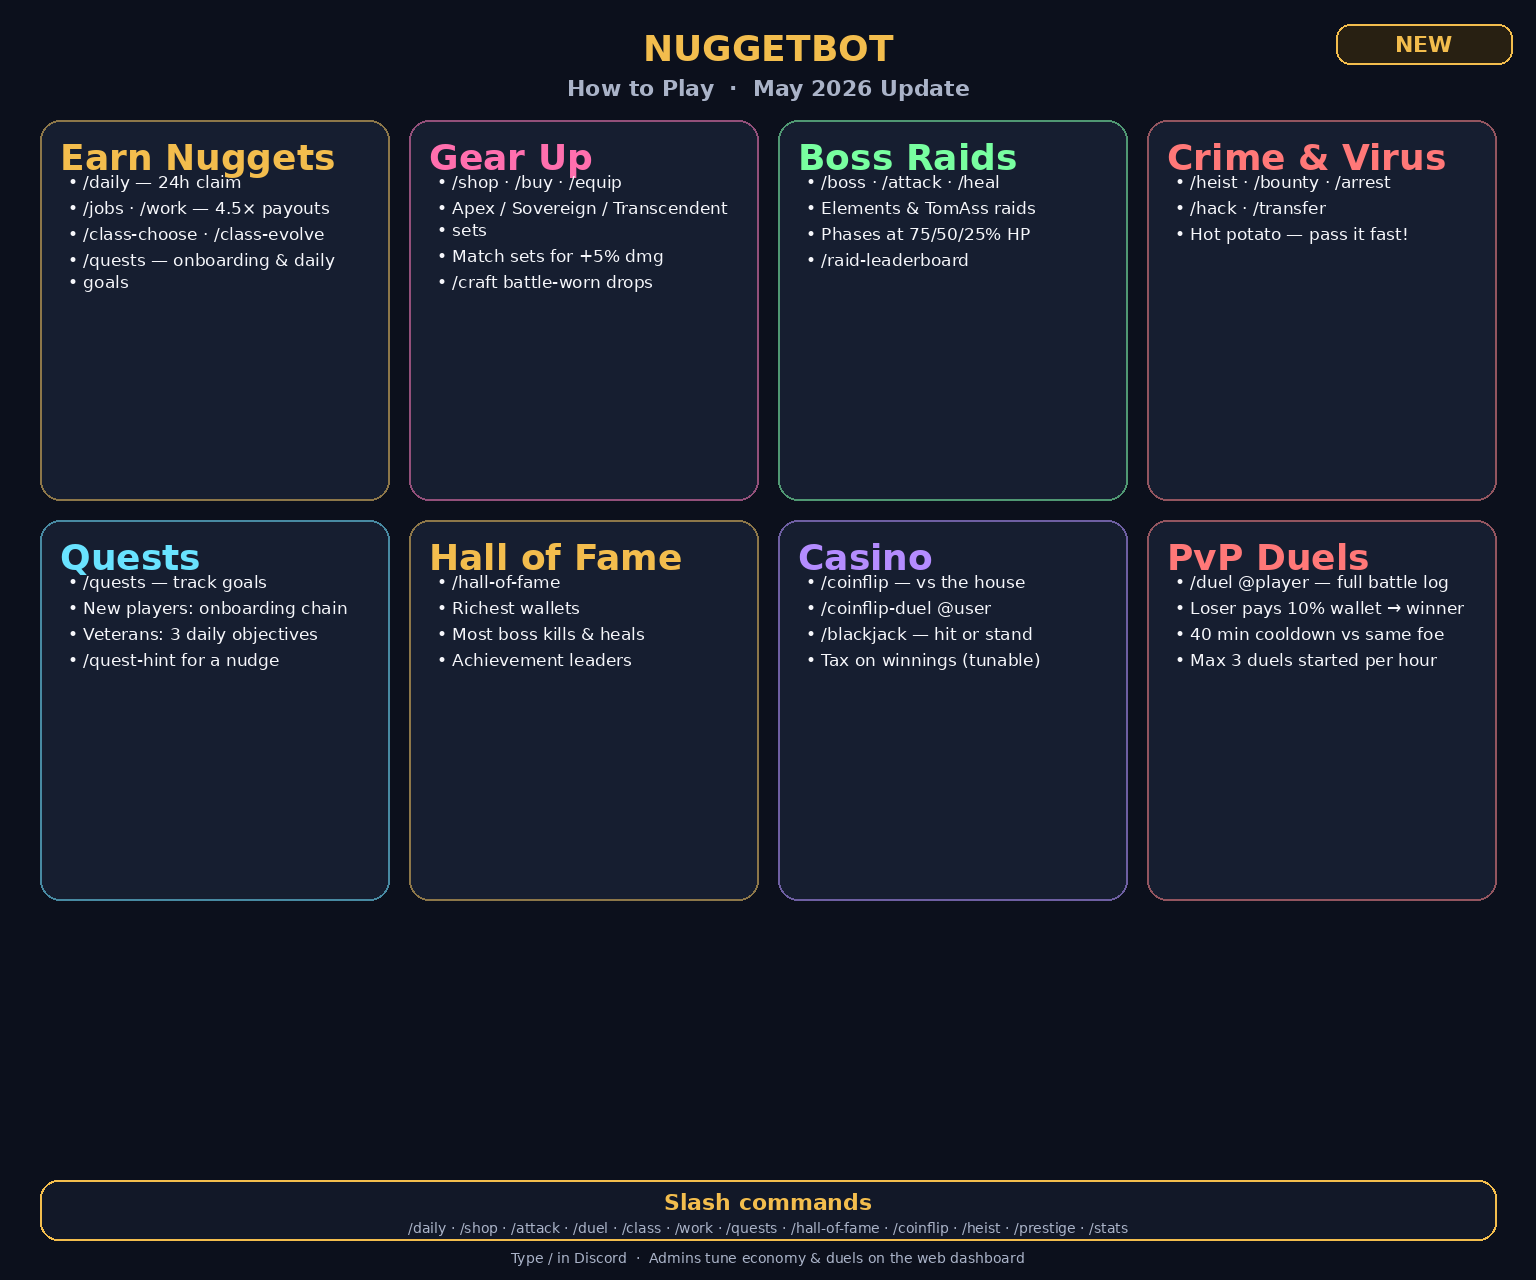
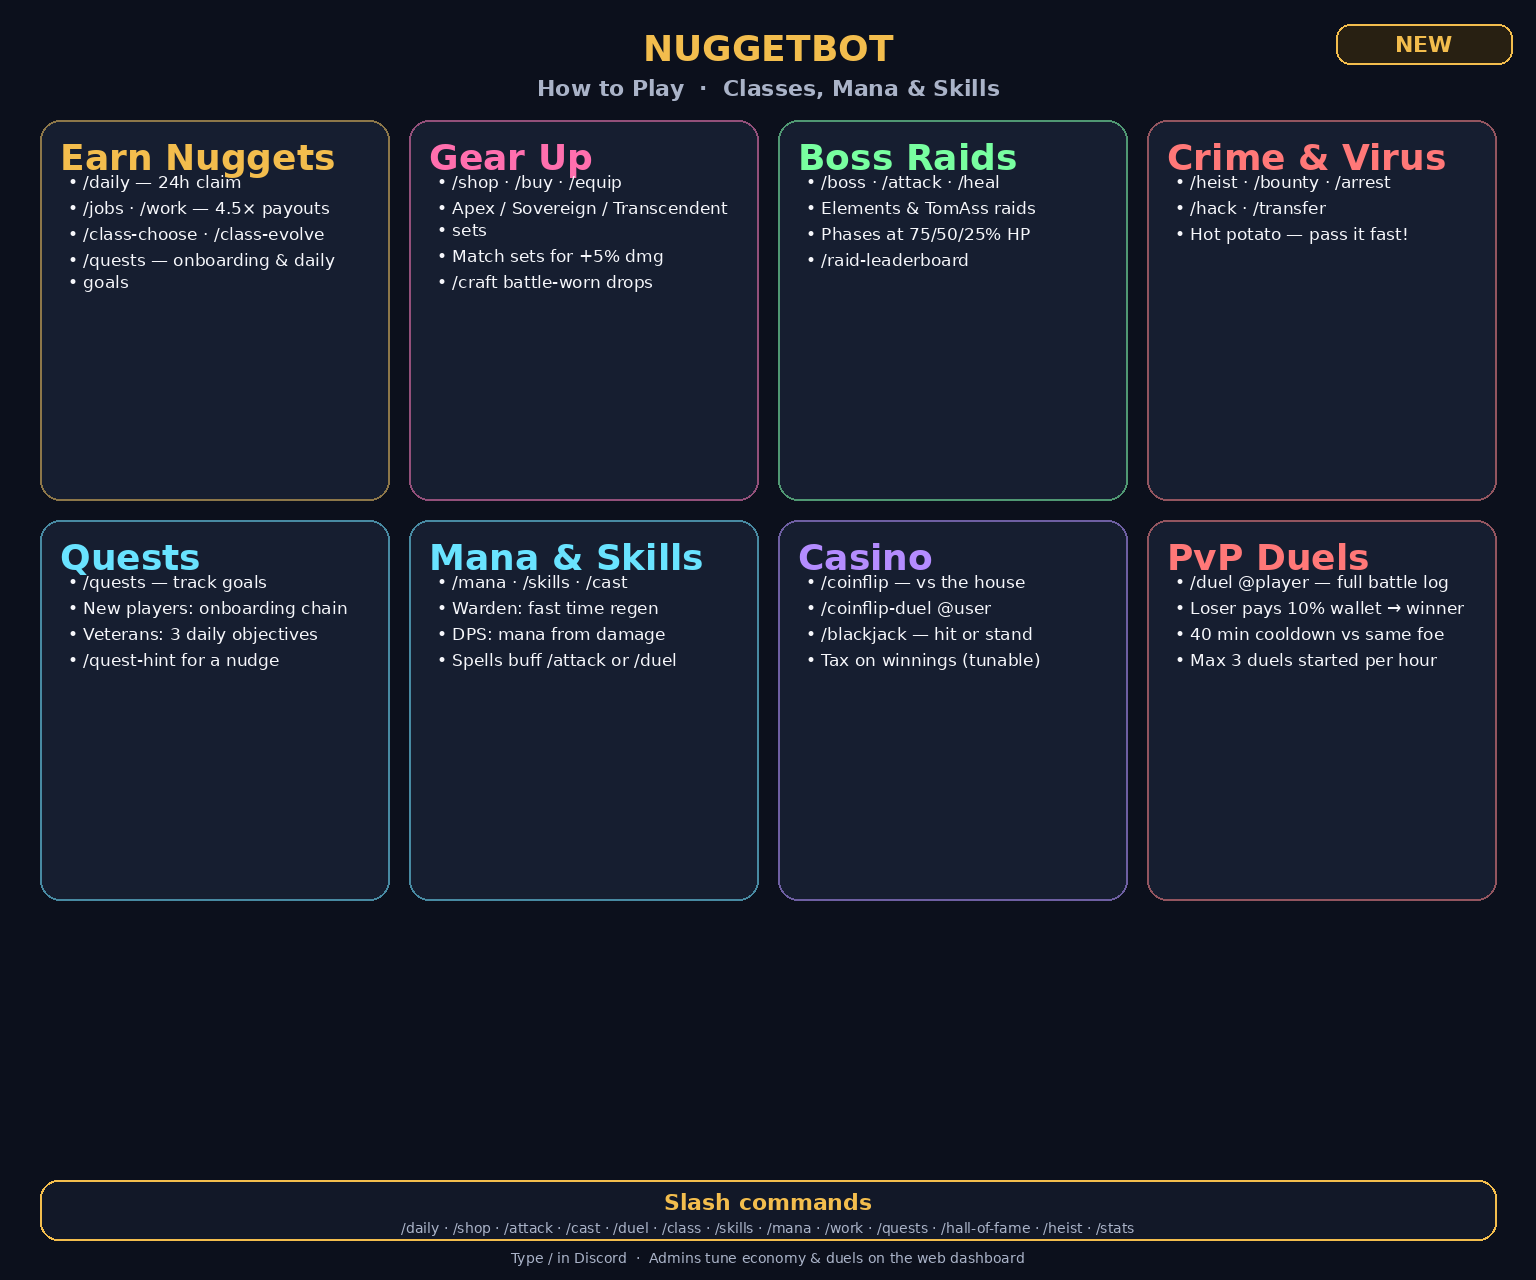
Update player guide PDF and infographic for mana and skills

Changed region(s): [[0.2812, 0.4062, 0.4688, 0.5312], [0.25, 0.9375, 0.7188, 0.9688], [0.3438, 0.0625, 0.6562, 0.0938]]

diff --git a/scripts/generate_player_guide.py b/scripts/generate_player_guide.py
@@ -214,6 +214,24 @@ def build() -> None:
     pdf.ln(2)
     pdf.body("Jobs (/jobs, /work) pay 4.5x base rates; class can further modify payouts.")
     pdf.ln(2)
+    pdf.chapter_title("Mana and class skills")
+    pdf.bullet("/mana - mana bar, regen rules, ready spell")
+    pdf.bullet("/skills - list your class spells and mana costs")
+    pdf.bullet("/cast skill_id - spend mana to cast (see /skills for ids)")
+    pdf.ln(2)
+    pdf.body(
+        "Most classes regen mana slowly over time (+2 every 45s) but mainly refill from "
+        "dealing damage (18% of boss hit damage). High DPS = more casts."
+    )
+    pdf.body(
+        "Healer classes (Vanguard Warden branch) regen mana faster over time (+7 every 20s) "
+        "and get less mana from damage (6%) so they can heal without spam-attacking."
+    )
+    pdf.body(
+        "Offensive spells charge your next /attack or /duel. Self-heals apply on cast. "
+        "Blessing boosts your next /heal payout. Smoke skills buff your next /heist."
+    )
+    pdf.ln(2)
     pdf.body("Achievement examples: first boss kill, 25 raids, mythic slayer, heist king, field medic, own Excalibur.")
 
     # 10 - Events
@@ -232,7 +250,8 @@ def build() -> None:
         ("Economy", "/daily, /balance, /pay, /leaderboard, /hall-of-fame"),
         ("Shop", "/shop, /buy, /inventory, /equip, /sell, /stats"),
         ("Raid", "/boss, /attack, /raid-leaderboard, /heal"),
-        ("Progress", "/achievements, /prestige, /craft, /event, /quests"),
+        ("Progress", "/class, /class-choose, /class-evolve, /mana, /skills, /cast"),
+        ("More", "/achievements, /prestige, /craft, /event, /quests, /jobs, /work"),
         ("Crime", "/heist, /arrest, /bounty, /bounties, /hack, /transfer"),
         ("PvP", "/duel, /coinflip, /coinflip-duel, /blackjack"),
         ("Fun", "/trivia, /quest-hint"),
@@ -254,6 +273,8 @@ def build() -> None:
     pdf.bullet("Use /stats public:true to show off your build in channel.")
     pdf.bullet("Check /quests daily for bonus nuggets.")
     pdf.bullet("Duel prepared opponents - gear and HP matter.")
+    pdf.bullet("Cast a spell before /attack or /duel for bonus damage or defense.")
+    pdf.bullet("Warden healers: /cast mend, then keep raiding without burning out on mana.")
 
     OUTPUT.parent.mkdir(parents=True, exist_ok=True)
     pdf.output(str(OUTPUT))

diff --git a/scripts/generate_infographic.py b/scripts/generate_infographic.py
@@ -101,7 +101,7 @@ def build() -> None:
     draw.text((W // 2, 48), "NUGGETBOT", fill=GOLD, font=hero_font, anchor="mm")
     draw.text(
         (W // 2, 88),
-        "How to Play  ·  May 2026 Update",
+        "How to Play  ·  Classes, Mana & Skills",
         fill=MUTED,
         font=section_font,
         anchor="mm",
@@ -168,13 +168,13 @@ def build() -> None:
             ],
         ),
         (
-            "Hall of Fame",
-            GOLD,
+            "Mana & Skills",
+            CYAN,
             [
-                "/hall-of-fame",
-                "Richest wallets",
-                "Most boss kills & heals",
-                "Achievement leaders",
+                "/mana · /skills · /cast",
+                "Warden: fast time regen",
+                "DPS: mana from damage",
+                "Spells buff /attack or /duel",
             ],
         ),
         (
@@ -209,8 +209,8 @@ def build() -> None:
     foot_y = H - 100
     _rounded_rect(draw, (margin, foot_y, W - margin, H - 40), 18, (18, 24, 40), outline=GOLD)
     footer_cmds = (
-        "/daily  ·  /shop  ·  /attack  ·  /duel  ·  /class  ·  /work  ·  /quests  ·  "
-        "/hall-of-fame  ·  /coinflip  ·  /heist  ·  /prestige  ·  /stats"
+        "/daily  ·  /shop  ·  /attack  ·  /cast  ·  /duel  ·  /class  ·  /skills  ·  "
+        "/mana  ·  /work  ·  /quests  ·  /hall-of-fame  ·  /heist  ·  /stats"
     )
     draw.text((W // 2, foot_y + 22), "Slash commands", fill=GOLD, font=section_font, anchor="mm")
     for i, line in enumerate(_wrap(draw, footer_cmds, small_font, W - 2 * margin - 40)):
